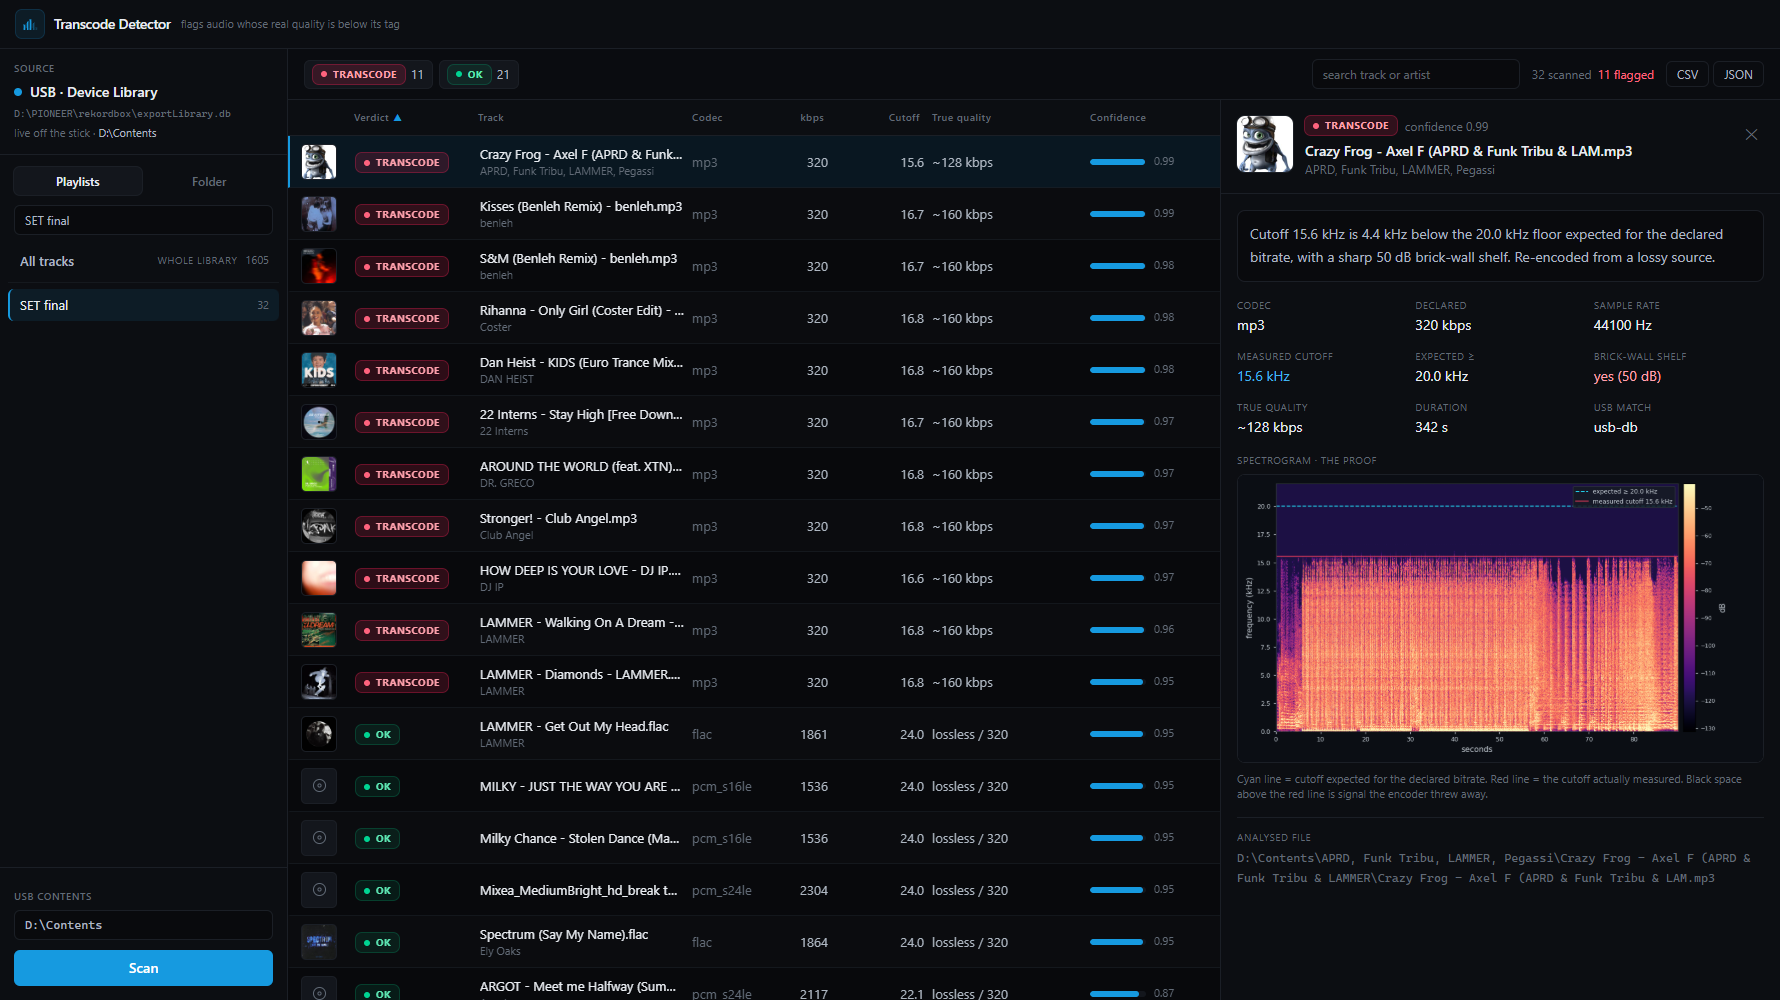
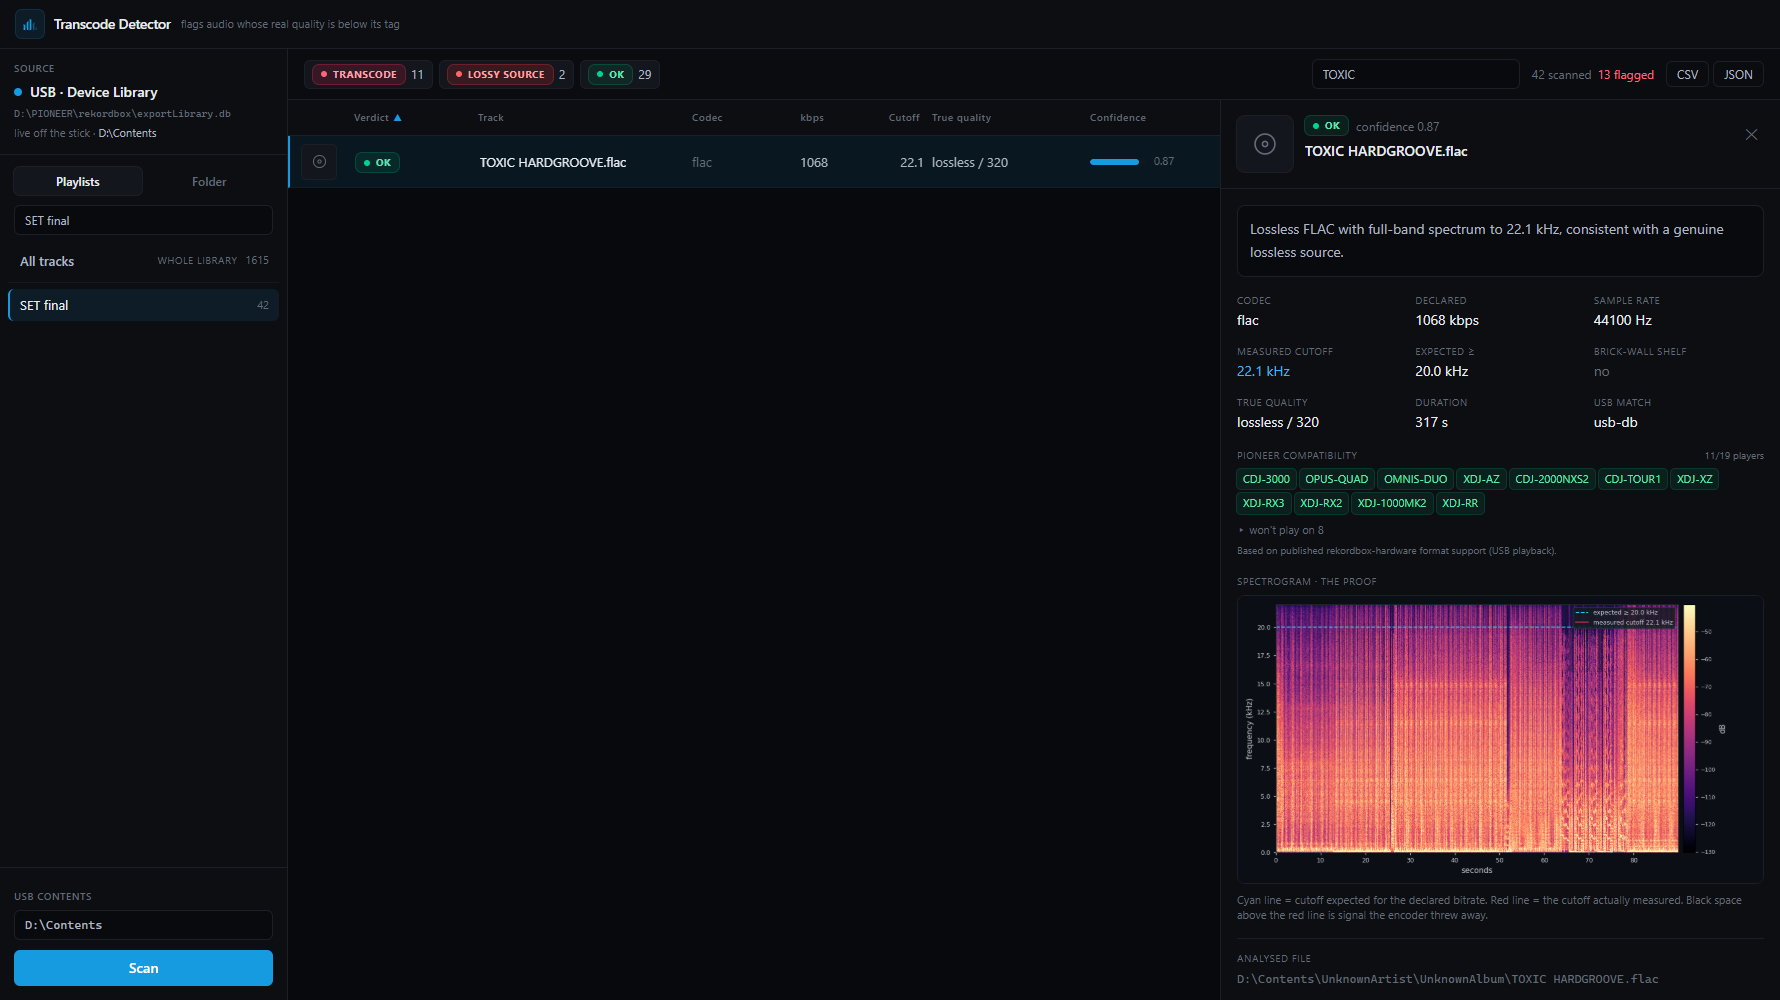
Add per-track Pioneer player compatibility
The detail panel now lists which Pioneer / AlphaTheta players can play each
track, computed from its codec + sample rate (frontend/src/players.ts):

- FLAC/ALAC plays only on newer gear (CDJ-3000, CDJ-2000NXS2, CDJ-TOUR1,
  XDJ-1000MK2/RX2/RX3/XZ/AZ, OPUS-QUAD, OMNIS-DUO; XDJ-RR up to 48 kHz). Older
  gear (CDJ-2000NXS/2000/900NXS/900/850, XDJ-1000/700/RX) is MP3/AAC/WAV/AIFF.
- OGG/Opus/WMA report as unsupported on all Pioneer players.
- Hi-res (>48 kHz) PCM/lossless is gated per model.

Shown as green "plays on" chips plus an expandable "won't play on N" list with
the reason per model (e.g. "no FLAC / ALAC support", "96 kHz over 48 kHz limit").

diff --git a/frontend/src/players.ts b/frontend/src/players.ts
@@ -1,0 +1,77 @@
+// Pioneer / AlphaTheta rekordbox-hardware format support, from published specs.
+// The practical gates are: (1) FLAC/ALAC is only on newer gear, (2) Pioneer
+// players don't play OGG/Opus/WMA, (3) hi-res (>48 kHz) PCM/lossless needs newer
+// gear. MP3/AAC/WAV/AIFF at <=48 kHz play on essentially everything.
+
+export type Family = 'mp3' | 'aac' | 'alac' | 'flac' | 'pcm' | 'other'
+
+interface PlayerSpec {
+  name: string
+  families: Family[]
+  maxSr: number // max sample rate (Hz) for PCM/lossless
+}
+
+const FULL: Family[] = ['mp3', 'aac', 'pcm', 'flac', 'alac']
+const LEGACY: Family[] = ['mp3', 'aac', 'pcm']
+
+// Ordered newest/most-capable first. All-in-ones included (AZ, XZ, RX3, RX2,
+// RR, OMNIS-DUO, OPUS-QUAD). maxSr caps hi-res: RR does lossless only up to
+// 48 kHz in standalone USB playback.
+const PLAYERS: PlayerSpec[] = [
+  { name: 'CDJ-3000', families: FULL, maxSr: 96000 },
+  { name: 'OPUS-QUAD', families: FULL, maxSr: 96000 },
+  { name: 'OMNIS-DUO', families: FULL, maxSr: 96000 },
+  { name: 'XDJ-AZ', families: FULL, maxSr: 96000 },
+  { name: 'CDJ-2000NXS2', families: FULL, maxSr: 96000 },
+  { name: 'CDJ-TOUR1', families: FULL, maxSr: 96000 },
+  { name: 'XDJ-XZ', families: FULL, maxSr: 96000 },
+  { name: 'XDJ-RX3', families: FULL, maxSr: 96000 },
+  { name: 'XDJ-RX2', families: FULL, maxSr: 96000 },
+  { name: 'XDJ-1000MK2', families: FULL, maxSr: 96000 },
+  { name: 'XDJ-RR', families: FULL, maxSr: 48000 },
+  { name: 'CDJ-2000NXS', families: LEGACY, maxSr: 48000 },
+  { name: 'CDJ-2000', families: LEGACY, maxSr: 48000 },
+  { name: 'CDJ-900NXS', families: LEGACY, maxSr: 48000 },
+  { name: 'CDJ-900', families: LEGACY, maxSr: 48000 },
+  { name: 'CDJ-850', families: LEGACY, maxSr: 48000 },
+  { name: 'XDJ-1000', families: LEGACY, maxSr: 48000 },
+  { name: 'XDJ-700', families: LEGACY, maxSr: 48000 },
+  { name: 'XDJ-RX', families: LEGACY, maxSr: 48000 },
+]
+
+export function codecFamily(codec: string): Family {
+  const c = (codec || '').toLowerCase()
+  if (c === 'mp3') return 'mp3'
+  if (c === 'aac') return 'aac'
+  if (c === 'alac') return 'alac'
+  if (c === 'flac') return 'flac'
+  if (c.startsWith('pcm')) return 'pcm'
+  return 'other'
+}
+
+export interface PlayerCompat {
+  name: string
+  ok: boolean
+  reason: string
+}
+
+export function playerCompatibility(codec: string, sampleRate: number): PlayerCompat[] {
+  const fam = codecFamily(codec)
+  return PLAYERS.map((p) => {
+    if (fam === 'other')
+      return { name: p.name, ok: false, reason: 'format not supported by Pioneer players' }
+    if (!p.families.includes(fam))
+      return {
+        name: p.name,
+        ok: false,
+        reason: fam === 'flac' || fam === 'alac' ? 'no FLAC / ALAC support' : 'format unsupported',
+      }
+    if ((fam === 'pcm' || fam === 'flac' || fam === 'alac') && sampleRate && sampleRate > p.maxSr)
+      return {
+        name: p.name,
+        ok: false,
+        reason: `${(sampleRate / 1000).toFixed(1)} kHz over ${(p.maxSr / 1000).toFixed(0)} kHz limit`,
+      }
+    return { name: p.name, ok: true, reason: '' }
+  })
+}

diff --git a/frontend/src/components/DetailPanel.tsx b/frontend/src/components/DetailPanel.tsx
@@ -2,6 +2,7 @@ import { useEffect, useState } from 'react'
 import type { ReactNode } from 'react'
 import { api } from '../api'
 import type { TrackResult } from '../api'
+import { playerCompatibility } from '../players'
 import { VerdictBadge } from './VerdictBadge'
 import { Cover } from './Cover'
 
@@ -27,6 +28,10 @@ export function DetailPanel({ row, onClose }: { row: TrackResult; onClose: () =>
     setLoaded(false)
     setFailed(false)
   }, [src])
+
+  const compat = playerCompatibility(row.codec, row.sampleRate)
+  const plays = compat.filter((c) => c.ok)
+  const nope = compat.filter((c) => !c.ok)
 
   return (
     <aside className="panel-in flex w-[560px] shrink-0 flex-col border-l border-line bg-surface">
@@ -81,6 +86,51 @@ export function DetailPanel({ row, onClose }: { row: TrackResult; onClose: () =>
           <Fact label="Duration" value={row.durationSec ? `${row.durationSec.toFixed(0)} s` : '·'} />
           {row.match && <Fact label="USB match" value={row.match} />}
         </div>
+
+        {row.verdict !== 'ERROR' && (
+          <div>
+            <div className="mb-1.5 flex items-center justify-between">
+              <span className="text-[10px] uppercase tracking-wider text-muted">
+                Pioneer compatibility
+              </span>
+              <span className="tabular-nums text-[10px] text-muted">
+                {plays.length}/{compat.length} players
+              </span>
+            </div>
+            {plays.length > 0 ? (
+              <div className="flex flex-wrap gap-1">
+                {plays.map((c) => (
+                  <span
+                    key={c.name}
+                    className="rounded bg-emerald-500/10 px-1.5 py-0.5 text-[11px] text-emerald-300 ring-1 ring-emerald-500/25"
+                  >
+                    {c.name}
+                  </span>
+                ))}
+              </div>
+            ) : (
+              <div className="text-[11px] text-rose-300">No Pioneer player supports this format.</div>
+            )}
+            {nope.length > 0 && (
+              <details className="mt-2">
+                <summary className="cursor-pointer list-none text-[11px] text-muted hover:text-body">
+                  ▸ won&apos;t play on {nope.length}
+                </summary>
+                <div className="mt-1.5 space-y-1">
+                  {nope.map((c) => (
+                    <div key={c.name} className="flex items-center justify-between gap-3 text-[11px]">
+                      <span className="text-slate-400">{c.name}</span>
+                      <span className="text-right text-rose-300/80">{c.reason}</span>
+                    </div>
+                  ))}
+                </div>
+              </details>
+            )}
+            <p className="mt-1.5 text-[10px] leading-snug text-muted">
+              Based on published rekordbox-hardware format support (USB playback).
+            </p>
+          </div>
+        )}
 
         <div>
           <div className="mb-1.5 text-[10px] uppercase tracking-wider text-muted">
